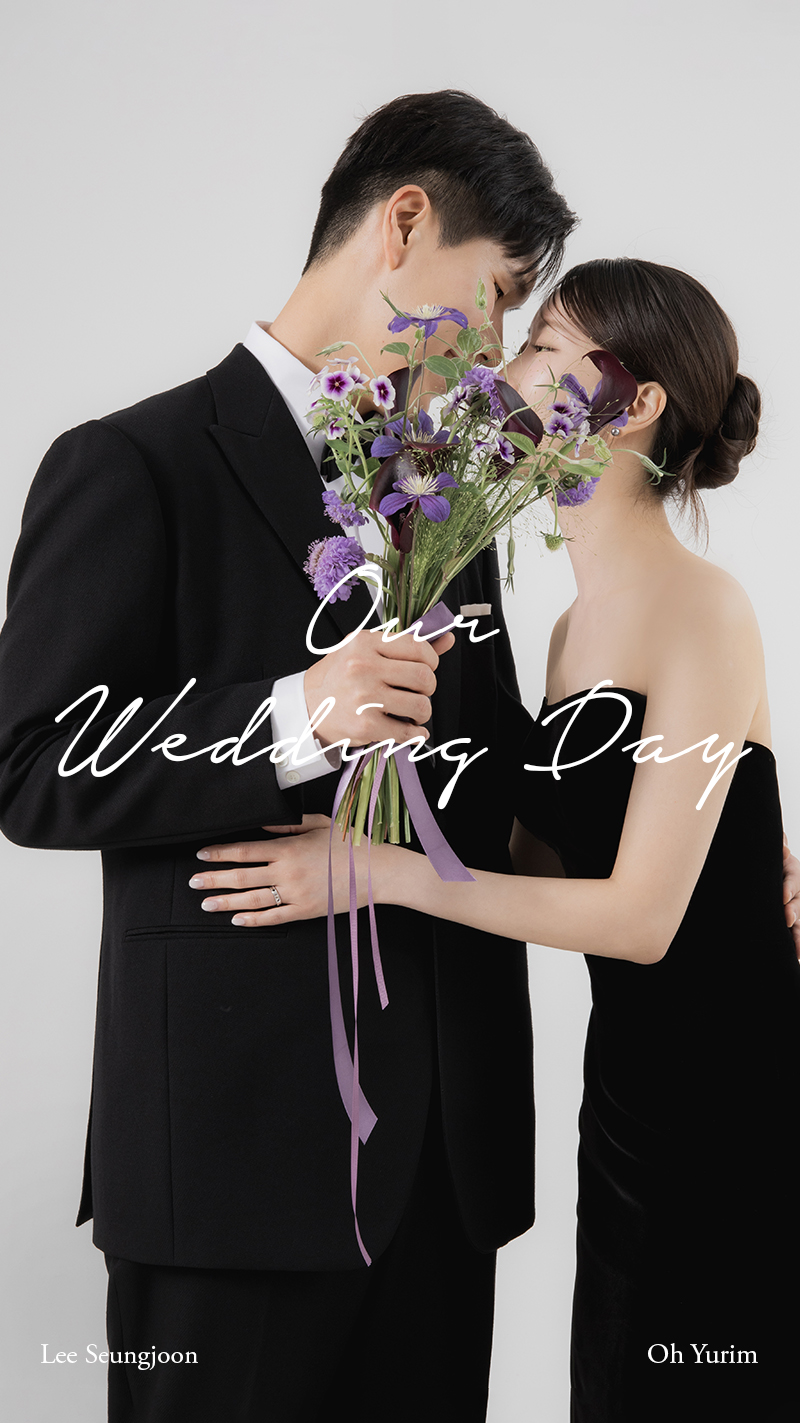
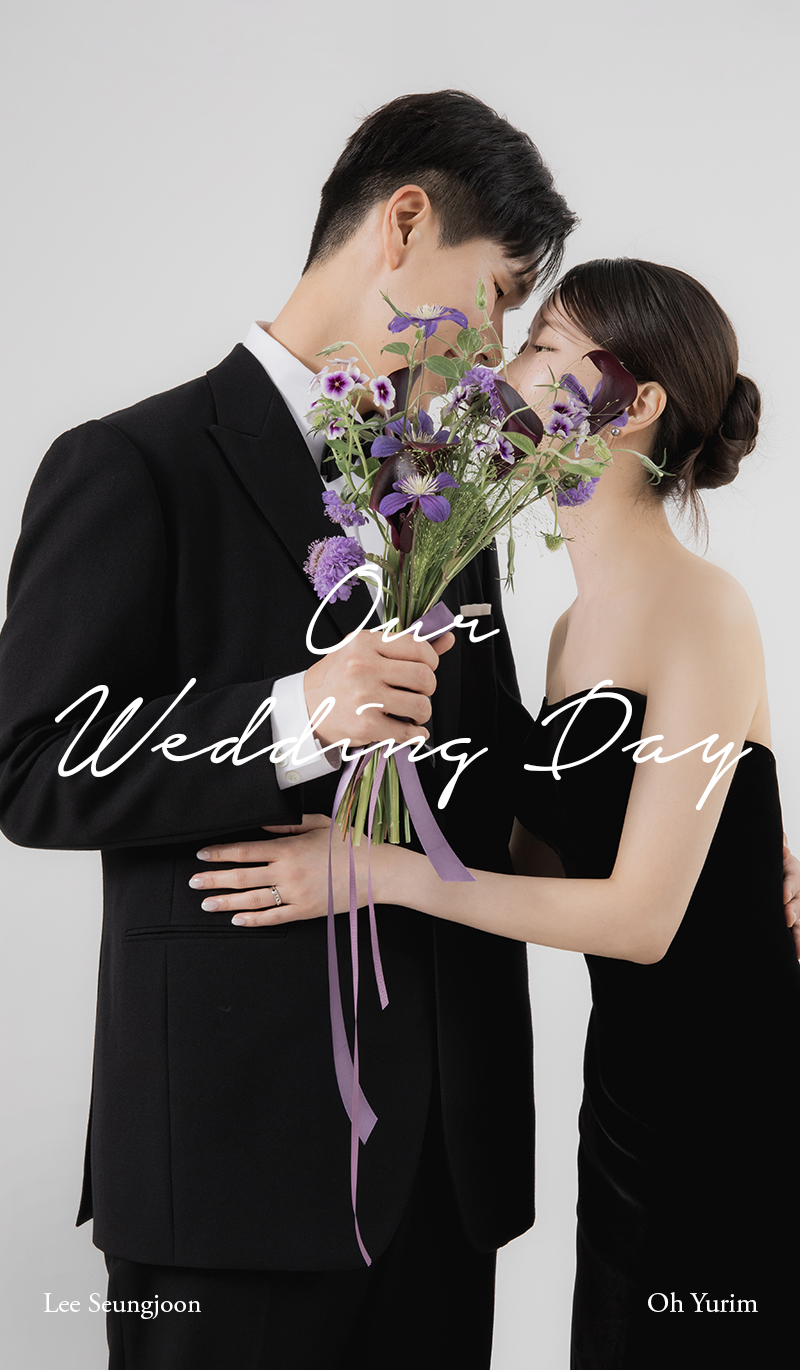
modify bg images

diff --git a/src/App.tsx b/src/App.tsx
@@ -252,7 +252,7 @@ function App() {
           style={{
             width: '100%',
             maxWidth: 430,
-            aspectRatio: 800 / 1423,
+            aspectRatio: 800 / 1370,
             backgroundImage: `url(${introImg})`,
           }}
           role="img"

diff --git a/src/App.css b/src/App.css
@@ -13,7 +13,7 @@ p {
 
 .bg-image-div {
   display: block;
-  background-size: cover;
+  background-size: contain;
   background-position: center;
   background-repeat: no-repeat;
   overflow: hidden;
